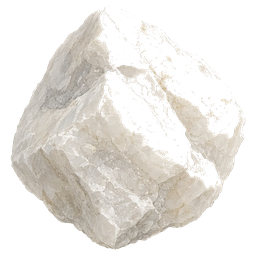
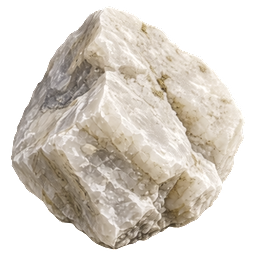
Replace the white quartz debris with the repainted version (v99)
The shipping debris/20 had black blowout patches across its upper face.
Against the game's dark sky those did not read as shadow, they read as
holes punched through the rock. The repaint keeps the same boulder with
clean quartz shading and warm mineral flecks instead.

Prepared as the other debris art is: premultiplied 512 -> 256 downscale
so no background can bleed into the edge, canvas border alpha 0, and a
236x245 footprint against the outgoing 236x244 - the same silhouette in
the same place, so nothing about how it spawns or collides changes. The
512 master is archived under art-src/debris-updates/.

Bumps ART_VER so the new art busts the cache, rebuilds the bundles and
retires js98.

diff --git a/docs/js/engine.js b/docs/js/engine.js
@@ -1,12 +1,12 @@
-import { emptyArt, loadArt } from "./art.js?v=98";
-import { sfx, unlockAudio, music } from "./audio.js?v=98";
-import { GUIDE_HELM, GUIDE_SUIT, HELMETS, IAP_ITEMS, IS_BETA, isIap, MOD_BATTERY_COST, MOD_SHIELD_COST, MODS, SUITS, TRAILS, TUT_ARM } from "./catalog.js?v=98";
-import { drawHud, drawWorld } from "./draw.js?v=98";
-import { batteryUnlocked, deepUnlocked, helmetRevealed, iapOwned, trailUnlocked, eraseSave, lostUnlocked, modsUnlocked, loadSave, palUnlocked, startShieldUnlocked, starsOf, suitRevealed, writeSave, } from "./save.js?v=98";
-import { emptyStats, experimentalRaceById, levelById, levelUnlocked } from "./campaign.js?v=98";
-import { dive, flap, initStars, makeWorld, settleLevel, pausePlay, planRaceCueEffects, resizeWorld, resetRun, resumePlay, setRaceInput, setTunnelHeld, snapshot, takeRaceCueEffects, updateWorld, } from "./sim.js?v=98";
-import { canonicalRaceY, cancelRaceGesture, createRaceGestureState, dropRaceGesture, moveRaceGesture, neutralizeOwnedRaceGesture, pressRaceGesture, releaseRaceGesture, } from "./race-gesture.js?v=98";
-import { raceViewport } from "./race-viewport.js?v=98";
+import { emptyArt, loadArt } from "./art.js?v=99";
+import { sfx, unlockAudio, music } from "./audio.js?v=99";
+import { GUIDE_HELM, GUIDE_SUIT, HELMETS, IAP_ITEMS, IS_BETA, isIap, MOD_BATTERY_COST, MOD_SHIELD_COST, MODS, SUITS, TRAILS, TUT_ARM } from "./catalog.js?v=99";
+import { drawHud, drawWorld } from "./draw.js?v=99";
+import { batteryUnlocked, deepUnlocked, helmetRevealed, iapOwned, trailUnlocked, eraseSave, lostUnlocked, modsUnlocked, loadSave, palUnlocked, startShieldUnlocked, starsOf, suitRevealed, writeSave, } from "./save.js?v=99";
+import { emptyStats, experimentalRaceById, levelById, levelUnlocked } from "./campaign.js?v=99";
+import { dive, flap, initStars, makeWorld, settleLevel, pausePlay, planRaceCueEffects, resizeWorld, resetRun, resumePlay, setRaceInput, setTunnelHeld, snapshot, takeRaceCueEffects, updateWorld, } from "./sim.js?v=99";
+import { canonicalRaceY, cancelRaceGesture, createRaceGestureState, dropRaceGesture, moveRaceGesture, neutralizeOwnedRaceGesture, pressRaceGesture, releaseRaceGesture, } from "./race-gesture.js?v=99";
+import { raceViewport } from "./race-viewport.js?v=99";
 export async function createEngine(canvas) {
     const raw = canvas.getContext("2d");
     if (!raw)
@@ -740,4 +740,4 @@ export async function createEngine(canvas) {
     notify();
     return engine;
 }
-export { deepUnlocked, lostUnlocked } from "./save.js?v=98";
+export { deepUnlocked, lostUnlocked } from "./save.js?v=99";

diff --git a/docs/js99/engine.js b/docs/js99/engine.js
@@ -1,12 +1,12 @@
-import { emptyArt, loadArt } from "./art.js?v=98";
-import { sfx, unlockAudio, music } from "./audio.js?v=98";
-import { GUIDE_HELM, GUIDE_SUIT, HELMETS, IAP_ITEMS, IS_BETA, isIap, MOD_BATTERY_COST, MOD_SHIELD_COST, MODS, SUITS, TRAILS, TUT_ARM } from "./catalog.js?v=98";
-import { drawHud, drawWorld } from "./draw.js?v=98";
-import { batteryUnlocked, deepUnlocked, helmetRevealed, iapOwned, trailUnlocked, eraseSave, lostUnlocked, modsUnlocked, loadSave, palUnlocked, startShieldUnlocked, starsOf, suitRevealed, writeSave, } from "./save.js?v=98";
-import { emptyStats, experimentalRaceById, levelById, levelUnlocked } from "./campaign.js?v=98";
-import { dive, flap, initStars, makeWorld, settleLevel, pausePlay, planRaceCueEffects, resizeWorld, resetRun, resumePlay, setRaceInput, setTunnelHeld, snapshot, takeRaceCueEffects, updateWorld, } from "./sim.js?v=98";
-import { canonicalRaceY, cancelRaceGesture, createRaceGestureState, dropRaceGesture, moveRaceGesture, neutralizeOwnedRaceGesture, pressRaceGesture, releaseRaceGesture, } from "./race-gesture.js?v=98";
-import { raceViewport } from "./race-viewport.js?v=98";
+import { emptyArt, loadArt } from "./art.js?v=99";
+import { sfx, unlockAudio, music } from "./audio.js?v=99";
+import { GUIDE_HELM, GUIDE_SUIT, HELMETS, IAP_ITEMS, IS_BETA, isIap, MOD_BATTERY_COST, MOD_SHIELD_COST, MODS, SUITS, TRAILS, TUT_ARM } from "./catalog.js?v=99";
+import { drawHud, drawWorld } from "./draw.js?v=99";
+import { batteryUnlocked, deepUnlocked, helmetRevealed, iapOwned, trailUnlocked, eraseSave, lostUnlocked, modsUnlocked, loadSave, palUnlocked, startShieldUnlocked, starsOf, suitRevealed, writeSave, } from "./save.js?v=99";
+import { emptyStats, experimentalRaceById, levelById, levelUnlocked } from "./campaign.js?v=99";
+import { dive, flap, initStars, makeWorld, settleLevel, pausePlay, planRaceCueEffects, resizeWorld, resetRun, resumePlay, setRaceInput, setTunnelHeld, snapshot, takeRaceCueEffects, updateWorld, } from "./sim.js?v=99";
+import { canonicalRaceY, cancelRaceGesture, createRaceGestureState, dropRaceGesture, moveRaceGesture, neutralizeOwnedRaceGesture, pressRaceGesture, releaseRaceGesture, } from "./race-gesture.js?v=99";
+import { raceViewport } from "./race-viewport.js?v=99";
 export async function createEngine(canvas) {
     const raw = canvas.getContext("2d");
     if (!raw)
@@ -740,4 +740,4 @@ export async function createEngine(canvas) {
     notify();
     return engine;
 }
-export { deepUnlocked, lostUnlocked } from "./save.js?v=98";
+export { deepUnlocked, lostUnlocked } from "./save.js?v=99";

diff --git a/sandbox_assets/js/engine.js b/sandbox_assets/js/engine.js
@@ -1,12 +1,12 @@
-import { emptyArt, loadArt } from "./art.js?v=98";
-import { sfx, unlockAudio, music } from "./audio.js?v=98";
-import { GUIDE_HELM, GUIDE_SUIT, HELMETS, IAP_ITEMS, IS_BETA, isIap, MOD_BATTERY_COST, MOD_SHIELD_COST, MODS, SUITS, TRAILS, TUT_ARM } from "./catalog.js?v=98";
-import { drawHud, drawWorld } from "./draw.js?v=98";
-import { batteryUnlocked, deepUnlocked, helmetRevealed, iapOwned, trailUnlocked, eraseSave, lostUnlocked, modsUnlocked, loadSave, palUnlocked, startShieldUnlocked, starsOf, suitRevealed, writeSave, } from "./save.js?v=98";
-import { emptyStats, experimentalRaceById, levelById, levelUnlocked } from "./campaign.js?v=98";
-import { dive, flap, initStars, makeWorld, settleLevel, pausePlay, planRaceCueEffects, resizeWorld, resetRun, resumePlay, setRaceInput, setTunnelHeld, snapshot, takeRaceCueEffects, updateWorld, } from "./sim.js?v=98";
-import { canonicalRaceY, cancelRaceGesture, createRaceGestureState, dropRaceGesture, moveRaceGesture, neutralizeOwnedRaceGesture, pressRaceGesture, releaseRaceGesture, } from "./race-gesture.js?v=98";
-import { raceViewport } from "./race-viewport.js?v=98";
+import { emptyArt, loadArt } from "./art.js?v=99";
+import { sfx, unlockAudio, music } from "./audio.js?v=99";
+import { GUIDE_HELM, GUIDE_SUIT, HELMETS, IAP_ITEMS, IS_BETA, isIap, MOD_BATTERY_COST, MOD_SHIELD_COST, MODS, SUITS, TRAILS, TUT_ARM } from "./catalog.js?v=99";
+import { drawHud, drawWorld } from "./draw.js?v=99";
+import { batteryUnlocked, deepUnlocked, helmetRevealed, iapOwned, trailUnlocked, eraseSave, lostUnlocked, modsUnlocked, loadSave, palUnlocked, startShieldUnlocked, starsOf, suitRevealed, writeSave, } from "./save.js?v=99";
+import { emptyStats, experimentalRaceById, levelById, levelUnlocked } from "./campaign.js?v=99";
+import { dive, flap, initStars, makeWorld, settleLevel, pausePlay, planRaceCueEffects, resizeWorld, resetRun, resumePlay, setRaceInput, setTunnelHeld, snapshot, takeRaceCueEffects, updateWorld, } from "./sim.js?v=99";
+import { canonicalRaceY, cancelRaceGesture, createRaceGestureState, dropRaceGesture, moveRaceGesture, neutralizeOwnedRaceGesture, pressRaceGesture, releaseRaceGesture, } from "./race-gesture.js?v=99";
+import { raceViewport } from "./race-viewport.js?v=99";
 export async function createEngine(canvas) {
     const raw = canvas.getContext("2d");
     if (!raw)
@@ -740,4 +740,4 @@ export async function createEngine(canvas) {
     notify();
     return engine;
 }
-export { deepUnlocked, lostUnlocked } from "./save.js?v=98";
+export { deepUnlocked, lostUnlocked } from "./save.js?v=99";

diff --git a/sandbox_assets/js99/engine.js b/sandbox_assets/js99/engine.js
@@ -1,12 +1,12 @@
-import { emptyArt, loadArt } from "./art.js?v=98";
-import { sfx, unlockAudio, music } from "./audio.js?v=98";
-import { GUIDE_HELM, GUIDE_SUIT, HELMETS, IAP_ITEMS, IS_BETA, isIap, MOD_BATTERY_COST, MOD_SHIELD_COST, MODS, SUITS, TRAILS, TUT_ARM } from "./catalog.js?v=98";
-import { drawHud, drawWorld } from "./draw.js?v=98";
-import { batteryUnlocked, deepUnlocked, helmetRevealed, iapOwned, trailUnlocked, eraseSave, lostUnlocked, modsUnlocked, loadSave, palUnlocked, startShieldUnlocked, starsOf, suitRevealed, writeSave, } from "./save.js?v=98";
-import { emptyStats, experimentalRaceById, levelById, levelUnlocked } from "./campaign.js?v=98";
-import { dive, flap, initStars, makeWorld, settleLevel, pausePlay, planRaceCueEffects, resizeWorld, resetRun, resumePlay, setRaceInput, setTunnelHeld, snapshot, takeRaceCueEffects, updateWorld, } from "./sim.js?v=98";
-import { canonicalRaceY, cancelRaceGesture, createRaceGestureState, dropRaceGesture, moveRaceGesture, neutralizeOwnedRaceGesture, pressRaceGesture, releaseRaceGesture, } from "./race-gesture.js?v=98";
-import { raceViewport } from "./race-viewport.js?v=98";
+import { emptyArt, loadArt } from "./art.js?v=99";
+import { sfx, unlockAudio, music } from "./audio.js?v=99";
+import { GUIDE_HELM, GUIDE_SUIT, HELMETS, IAP_ITEMS, IS_BETA, isIap, MOD_BATTERY_COST, MOD_SHIELD_COST, MODS, SUITS, TRAILS, TUT_ARM } from "./catalog.js?v=99";
+import { drawHud, drawWorld } from "./draw.js?v=99";
+import { batteryUnlocked, deepUnlocked, helmetRevealed, iapOwned, trailUnlocked, eraseSave, lostUnlocked, modsUnlocked, loadSave, palUnlocked, startShieldUnlocked, starsOf, suitRevealed, writeSave, } from "./save.js?v=99";
+import { emptyStats, experimentalRaceById, levelById, levelUnlocked } from "./campaign.js?v=99";
+import { dive, flap, initStars, makeWorld, settleLevel, pausePlay, planRaceCueEffects, resizeWorld, resetRun, resumePlay, setRaceInput, setTunnelHeld, snapshot, takeRaceCueEffects, updateWorld, } from "./sim.js?v=99";
+import { canonicalRaceY, cancelRaceGesture, createRaceGestureState, dropRaceGesture, moveRaceGesture, neutralizeOwnedRaceGesture, pressRaceGesture, releaseRaceGesture, } from "./race-gesture.js?v=99";
+import { raceViewport } from "./race-viewport.js?v=99";
 export async function createEngine(canvas) {
     const raw = canvas.getContext("2d");
     if (!raw)
@@ -740,4 +740,4 @@ export async function createEngine(canvas) {
     notify();
     return engine;
 }
-export { deepUnlocked, lostUnlocked } from "./save.js?v=98";
+export { deepUnlocked, lostUnlocked } from "./save.js?v=99";

diff --git a/docs/js/draw.js b/docs/js/draw.js
@@ -1,11 +1,11 @@
-import { SKY_RGB, BOUNCE_ANIM_DURATION, ENVS, IS_BETA, PHYS, SUITS, TUT_ARM, TAP_ANIM_DURATION, TAP_ANIM_ENABLED, helmetWornBy, skyIdFor, washScale, wearsOwnHead } from "./catalog.js?v=98";
-import { drawTrailPreviewOn, drawPalOn, drawAstronautOn } from "./cosmetics.js?v=98";
-import { proceduralSky } from "./sky-gen.js?v=98";
-import { drawSprite, skyImage, spriteHalo, SPRITE_HALO_PAD } from "./art.js?v=98";
-import { retroBackdrop, retroPlanet, retroObstacle, retroAcorn, retroBlocker } from "./retro.js?v=98";
-import { tunnelBoundsAt } from "./sim.js?v=98";
-import { raceViewport, raceViewportX, raceViewportY } from "./race-viewport.js?v=98";
-import { RACE_ACORNS, RACE_BASE_SPEED, RACE_DEBRIS, RACE_ENTRY_TICKS, RACE_GATE_CLEARANCE, RACE_GATE_MISS_FADE_TICKS, RACE_GATE_PASS_FADE_TICKS, RACE_HZ, RACE_LENGTH, RACE_MAX_INTERACTIVE_GAP, RACE_MAX_SPEED, RACE_PILOT_X, RACE_READY_COPY, RACE_RETURN_TICKS, RACE_RINGS, RACE_SEED, RACE_TUNNEL_SPEED, RACE_TUNNEL_TICKS, formatRaceTicks, raceDecisionAge, raceRouteTarget, raceTunnelAcorns, raceTunnelGeometry, } from "./race.js?v=98";
+import { SKY_RGB, BOUNCE_ANIM_DURATION, ENVS, IS_BETA, PHYS, SUITS, TUT_ARM, TAP_ANIM_DURATION, TAP_ANIM_ENABLED, helmetWornBy, skyIdFor, washScale, wearsOwnHead } from "./catalog.js?v=99";
+import { drawTrailPreviewOn, drawPalOn, drawAstronautOn } from "./cosmetics.js?v=99";
+import { proceduralSky } from "./sky-gen.js?v=99";
+import { drawSprite, skyImage, spriteHalo, SPRITE_HALO_PAD } from "./art.js?v=99";
+import { retroBackdrop, retroPlanet, retroObstacle, retroAcorn, retroBlocker } from "./retro.js?v=99";
+import { tunnelBoundsAt } from "./sim.js?v=99";
+import { raceViewport, raceViewportX, raceViewportY } from "./race-viewport.js?v=99";
+import { RACE_ACORNS, RACE_BASE_SPEED, RACE_DEBRIS, RACE_ENTRY_TICKS, RACE_GATE_CLEARANCE, RACE_GATE_MISS_FADE_TICKS, RACE_GATE_PASS_FADE_TICKS, RACE_HZ, RACE_LENGTH, RACE_MAX_INTERACTIVE_GAP, RACE_MAX_SPEED, RACE_PILOT_X, RACE_READY_COPY, RACE_RETURN_TICKS, RACE_RINGS, RACE_SEED, RACE_TUNNEL_SPEED, RACE_TUNNEL_TICKS, formatRaceTicks, raceDecisionAge, raceRouteTarget, raceTunnelAcorns, raceTunnelGeometry, } from "./race.js?v=99";
 function frameOf(list, t, speed = 6) {
     if (!list.length)
         return null;

diff --git a/docs/js99/draw.js b/docs/js99/draw.js
@@ -1,11 +1,11 @@
-import { SKY_RGB, BOUNCE_ANIM_DURATION, ENVS, IS_BETA, PHYS, SUITS, TUT_ARM, TAP_ANIM_DURATION, TAP_ANIM_ENABLED, helmetWornBy, skyIdFor, washScale, wearsOwnHead } from "./catalog.js?v=98";
-import { drawTrailPreviewOn, drawPalOn, drawAstronautOn } from "./cosmetics.js?v=98";
-import { proceduralSky } from "./sky-gen.js?v=98";
-import { drawSprite, skyImage, spriteHalo, SPRITE_HALO_PAD } from "./art.js?v=98";
-import { retroBackdrop, retroPlanet, retroObstacle, retroAcorn, retroBlocker } from "./retro.js?v=98";
-import { tunnelBoundsAt } from "./sim.js?v=98";
-import { raceViewport, raceViewportX, raceViewportY } from "./race-viewport.js?v=98";
-import { RACE_ACORNS, RACE_BASE_SPEED, RACE_DEBRIS, RACE_ENTRY_TICKS, RACE_GATE_CLEARANCE, RACE_GATE_MISS_FADE_TICKS, RACE_GATE_PASS_FADE_TICKS, RACE_HZ, RACE_LENGTH, RACE_MAX_INTERACTIVE_GAP, RACE_MAX_SPEED, RACE_PILOT_X, RACE_READY_COPY, RACE_RETURN_TICKS, RACE_RINGS, RACE_SEED, RACE_TUNNEL_SPEED, RACE_TUNNEL_TICKS, formatRaceTicks, raceDecisionAge, raceRouteTarget, raceTunnelAcorns, raceTunnelGeometry, } from "./race.js?v=98";
+import { SKY_RGB, BOUNCE_ANIM_DURATION, ENVS, IS_BETA, PHYS, SUITS, TUT_ARM, TAP_ANIM_DURATION, TAP_ANIM_ENABLED, helmetWornBy, skyIdFor, washScale, wearsOwnHead } from "./catalog.js?v=99";
+import { drawTrailPreviewOn, drawPalOn, drawAstronautOn } from "./cosmetics.js?v=99";
+import { proceduralSky } from "./sky-gen.js?v=99";
+import { drawSprite, skyImage, spriteHalo, SPRITE_HALO_PAD } from "./art.js?v=99";
+import { retroBackdrop, retroPlanet, retroObstacle, retroAcorn, retroBlocker } from "./retro.js?v=99";
+import { tunnelBoundsAt } from "./sim.js?v=99";
+import { raceViewport, raceViewportX, raceViewportY } from "./race-viewport.js?v=99";
+import { RACE_ACORNS, RACE_BASE_SPEED, RACE_DEBRIS, RACE_ENTRY_TICKS, RACE_GATE_CLEARANCE, RACE_GATE_MISS_FADE_TICKS, RACE_GATE_PASS_FADE_TICKS, RACE_HZ, RACE_LENGTH, RACE_MAX_INTERACTIVE_GAP, RACE_MAX_SPEED, RACE_PILOT_X, RACE_READY_COPY, RACE_RETURN_TICKS, RACE_RINGS, RACE_SEED, RACE_TUNNEL_SPEED, RACE_TUNNEL_TICKS, formatRaceTicks, raceDecisionAge, raceRouteTarget, raceTunnelAcorns, raceTunnelGeometry, } from "./race.js?v=99";
 function frameOf(list, t, speed = 6) {
     if (!list.length)
         return null;

diff --git a/sandbox_assets/js/draw.js b/sandbox_assets/js/draw.js
@@ -1,11 +1,11 @@
-import { SKY_RGB, BOUNCE_ANIM_DURATION, ENVS, IS_BETA, PHYS, SUITS, TUT_ARM, TAP_ANIM_DURATION, TAP_ANIM_ENABLED, helmetWornBy, skyIdFor, washScale, wearsOwnHead } from "./catalog.js?v=98";
-import { drawTrailPreviewOn, drawPalOn, drawAstronautOn } from "./cosmetics.js?v=98";
-import { proceduralSky } from "./sky-gen.js?v=98";
-import { drawSprite, skyImage, spriteHalo, SPRITE_HALO_PAD } from "./art.js?v=98";
-import { retroBackdrop, retroPlanet, retroObstacle, retroAcorn, retroBlocker } from "./retro.js?v=98";
-import { tunnelBoundsAt } from "./sim.js?v=98";
-import { raceViewport, raceViewportX, raceViewportY } from "./race-viewport.js?v=98";
-import { RACE_ACORNS, RACE_BASE_SPEED, RACE_DEBRIS, RACE_ENTRY_TICKS, RACE_GATE_CLEARANCE, RACE_GATE_MISS_FADE_TICKS, RACE_GATE_PASS_FADE_TICKS, RACE_HZ, RACE_LENGTH, RACE_MAX_INTERACTIVE_GAP, RACE_MAX_SPEED, RACE_PILOT_X, RACE_READY_COPY, RACE_RETURN_TICKS, RACE_RINGS, RACE_SEED, RACE_TUNNEL_SPEED, RACE_TUNNEL_TICKS, formatRaceTicks, raceDecisionAge, raceRouteTarget, raceTunnelAcorns, raceTunnelGeometry, } from "./race.js?v=98";
+import { SKY_RGB, BOUNCE_ANIM_DURATION, ENVS, IS_BETA, PHYS, SUITS, TUT_ARM, TAP_ANIM_DURATION, TAP_ANIM_ENABLED, helmetWornBy, skyIdFor, washScale, wearsOwnHead } from "./catalog.js?v=99";
+import { drawTrailPreviewOn, drawPalOn, drawAstronautOn } from "./cosmetics.js?v=99";
+import { proceduralSky } from "./sky-gen.js?v=99";
+import { drawSprite, skyImage, spriteHalo, SPRITE_HALO_PAD } from "./art.js?v=99";
+import { retroBackdrop, retroPlanet, retroObstacle, retroAcorn, retroBlocker } from "./retro.js?v=99";
+import { tunnelBoundsAt } from "./sim.js?v=99";
+import { raceViewport, raceViewportX, raceViewportY } from "./race-viewport.js?v=99";
+import { RACE_ACORNS, RACE_BASE_SPEED, RACE_DEBRIS, RACE_ENTRY_TICKS, RACE_GATE_CLEARANCE, RACE_GATE_MISS_FADE_TICKS, RACE_GATE_PASS_FADE_TICKS, RACE_HZ, RACE_LENGTH, RACE_MAX_INTERACTIVE_GAP, RACE_MAX_SPEED, RACE_PILOT_X, RACE_READY_COPY, RACE_RETURN_TICKS, RACE_RINGS, RACE_SEED, RACE_TUNNEL_SPEED, RACE_TUNNEL_TICKS, formatRaceTicks, raceDecisionAge, raceRouteTarget, raceTunnelAcorns, raceTunnelGeometry, } from "./race.js?v=99";
 function frameOf(list, t, speed = 6) {
     if (!list.length)
         return null;

diff --git a/sandbox_assets/js99/draw.js b/sandbox_assets/js99/draw.js
@@ -1,11 +1,11 @@
-import { SKY_RGB, BOUNCE_ANIM_DURATION, ENVS, IS_BETA, PHYS, SUITS, TUT_ARM, TAP_ANIM_DURATION, TAP_ANIM_ENABLED, helmetWornBy, skyIdFor, washScale, wearsOwnHead } from "./catalog.js?v=98";
-import { drawTrailPreviewOn, drawPalOn, drawAstronautOn } from "./cosmetics.js?v=98";
-import { proceduralSky } from "./sky-gen.js?v=98";
-import { drawSprite, skyImage, spriteHalo, SPRITE_HALO_PAD } from "./art.js?v=98";
-import { retroBackdrop, retroPlanet, retroObstacle, retroAcorn, retroBlocker } from "./retro.js?v=98";
-import { tunnelBoundsAt } from "./sim.js?v=98";
-import { raceViewport, raceViewportX, raceViewportY } from "./race-viewport.js?v=98";
-import { RACE_ACORNS, RACE_BASE_SPEED, RACE_DEBRIS, RACE_ENTRY_TICKS, RACE_GATE_CLEARANCE, RACE_GATE_MISS_FADE_TICKS, RACE_GATE_PASS_FADE_TICKS, RACE_HZ, RACE_LENGTH, RACE_MAX_INTERACTIVE_GAP, RACE_MAX_SPEED, RACE_PILOT_X, RACE_READY_COPY, RACE_RETURN_TICKS, RACE_RINGS, RACE_SEED, RACE_TUNNEL_SPEED, RACE_TUNNEL_TICKS, formatRaceTicks, raceDecisionAge, raceRouteTarget, raceTunnelAcorns, raceTunnelGeometry, } from "./race.js?v=98";
+import { SKY_RGB, BOUNCE_ANIM_DURATION, ENVS, IS_BETA, PHYS, SUITS, TUT_ARM, TAP_ANIM_DURATION, TAP_ANIM_ENABLED, helmetWornBy, skyIdFor, washScale, wearsOwnHead } from "./catalog.js?v=99";
+import { drawTrailPreviewOn, drawPalOn, drawAstronautOn } from "./cosmetics.js?v=99";
+import { proceduralSky } from "./sky-gen.js?v=99";
+import { drawSprite, skyImage, spriteHalo, SPRITE_HALO_PAD } from "./art.js?v=99";
+import { retroBackdrop, retroPlanet, retroObstacle, retroAcorn, retroBlocker } from "./retro.js?v=99";
+import { tunnelBoundsAt } from "./sim.js?v=99";
+import { raceViewport, raceViewportX, raceViewportY } from "./race-viewport.js?v=99";
+import { RACE_ACORNS, RACE_BASE_SPEED, RACE_DEBRIS, RACE_ENTRY_TICKS, RACE_GATE_CLEARANCE, RACE_GATE_MISS_FADE_TICKS, RACE_GATE_PASS_FADE_TICKS, RACE_HZ, RACE_LENGTH, RACE_MAX_INTERACTIVE_GAP, RACE_MAX_SPEED, RACE_PILOT_X, RACE_READY_COPY, RACE_RETURN_TICKS, RACE_RINGS, RACE_SEED, RACE_TUNNEL_SPEED, RACE_TUNNEL_TICKS, formatRaceTicks, raceDecisionAge, raceRouteTarget, raceTunnelAcorns, raceTunnelGeometry, } from "./race.js?v=99";
 function frameOf(list, t, speed = 6) {
     if (!list.length)
         return null;

diff --git a/docs/js/standalone.js b/docs/js/standalone.js
@@ -1,10 +1,10 @@
-import { ART_VER, BUILD, ENVS, GAME_VERSION, GUIDE_HELM, GUIDE_SUIT, HELMETS, IAP_ITEMS, IS_BETA, MOD_BATTERY_COST, MOD_SHIELD_COST, MODS, NEWS, PALS, PHYS, SUITS, TRAILS, helmetWornBy, isIap, wearsOwnHead } from "./catalog.js?v=98";
-import { paintPortrait, paintTrailPreview, paintPalPreview } from "./draw.js?v=98";
-import { drawSprite as drawSpriteOn } from "./art.js?v=98";
-import { createEngine } from "./engine.js?v=98";
-import { deepUnlocked, helmetRevealed, lostUnlocked, palUnlocked, suitRevealed, iapOwned, modsUnlocked, starsOf, trailUnlocked } from "./save.js?v=98";
-import { LEVELS, PROTOTYPE_RACE_MAX_ACORNS, PROTOTYPE_RACE_MISSION, STAGES, STAR_REWARDS, STAR_UNLOCKS, countBits, experimentalRaceById, fxText, goalText, levelUnlocked, stageUnlocked, starTitle } from "./campaign.js?v=98";
-import { formatRaceTicks } from "./race.js?v=98";
+import { ART_VER, BUILD, ENVS, GAME_VERSION, GUIDE_HELM, GUIDE_SUIT, HELMETS, IAP_ITEMS, IS_BETA, MOD_BATTERY_COST, MOD_SHIELD_COST, MODS, NEWS, PALS, PHYS, SUITS, TRAILS, helmetWornBy, isIap, wearsOwnHead } from "./catalog.js?v=99";
+import { paintPortrait, paintTrailPreview, paintPalPreview } from "./draw.js?v=99";
+import { drawSprite as drawSpriteOn } from "./art.js?v=99";
+import { createEngine } from "./engine.js?v=99";
+import { deepUnlocked, helmetRevealed, lostUnlocked, palUnlocked, suitRevealed, iapOwned, modsUnlocked, starsOf, trailUnlocked } from "./save.js?v=99";
+import { LEVELS, PROTOTYPE_RACE_MAX_ACORNS, PROTOTYPE_RACE_MISSION, STAGES, STAR_REWARDS, STAR_UNLOCKS, countBits, experimentalRaceById, fxText, goalText, levelUnlocked, stageUnlocked, starTitle } from "./campaign.js?v=99";
+import { formatRaceTicks } from "./race.js?v=99";
 function el(tag, cls = "", text) {
     const n = document.createElement(tag);
     if (cls)

diff --git a/docs/js99/standalone.js b/docs/js99/standalone.js
@@ -1,10 +1,10 @@
-import { ART_VER, BUILD, ENVS, GAME_VERSION, GUIDE_HELM, GUIDE_SUIT, HELMETS, IAP_ITEMS, IS_BETA, MOD_BATTERY_COST, MOD_SHIELD_COST, MODS, NEWS, PALS, PHYS, SUITS, TRAILS, helmetWornBy, isIap, wearsOwnHead } from "./catalog.js?v=98";
-import { paintPortrait, paintTrailPreview, paintPalPreview } from "./draw.js?v=98";
-import { drawSprite as drawSpriteOn } from "./art.js?v=98";
-import { createEngine } from "./engine.js?v=98";
-import { deepUnlocked, helmetRevealed, lostUnlocked, palUnlocked, suitRevealed, iapOwned, modsUnlocked, starsOf, trailUnlocked } from "./save.js?v=98";
-import { LEVELS, PROTOTYPE_RACE_MAX_ACORNS, PROTOTYPE_RACE_MISSION, STAGES, STAR_REWARDS, STAR_UNLOCKS, countBits, experimentalRaceById, fxText, goalText, levelUnlocked, stageUnlocked, starTitle } from "./campaign.js?v=98";
-import { formatRaceTicks } from "./race.js?v=98";
+import { ART_VER, BUILD, ENVS, GAME_VERSION, GUIDE_HELM, GUIDE_SUIT, HELMETS, IAP_ITEMS, IS_BETA, MOD_BATTERY_COST, MOD_SHIELD_COST, MODS, NEWS, PALS, PHYS, SUITS, TRAILS, helmetWornBy, isIap, wearsOwnHead } from "./catalog.js?v=99";
+import { paintPortrait, paintTrailPreview, paintPalPreview } from "./draw.js?v=99";
+import { drawSprite as drawSpriteOn } from "./art.js?v=99";
+import { createEngine } from "./engine.js?v=99";
+import { deepUnlocked, helmetRevealed, lostUnlocked, palUnlocked, suitRevealed, iapOwned, modsUnlocked, starsOf, trailUnlocked } from "./save.js?v=99";
+import { LEVELS, PROTOTYPE_RACE_MAX_ACORNS, PROTOTYPE_RACE_MISSION, STAGES, STAR_REWARDS, STAR_UNLOCKS, countBits, experimentalRaceById, fxText, goalText, levelUnlocked, stageUnlocked, starTitle } from "./campaign.js?v=99";
+import { formatRaceTicks } from "./race.js?v=99";
 function el(tag, cls = "", text) {
     const n = document.createElement(tag);
     if (cls)

diff --git a/sandbox_assets/js/standalone.js b/sandbox_assets/js/standalone.js
@@ -1,10 +1,10 @@
-import { ART_VER, BUILD, ENVS, GAME_VERSION, GUIDE_HELM, GUIDE_SUIT, HELMETS, IAP_ITEMS, IS_BETA, MOD_BATTERY_COST, MOD_SHIELD_COST, MODS, NEWS, PALS, PHYS, SUITS, TRAILS, helmetWornBy, isIap, wearsOwnHead } from "./catalog.js?v=98";
-import { paintPortrait, paintTrailPreview, paintPalPreview } from "./draw.js?v=98";
-import { drawSprite as drawSpriteOn } from "./art.js?v=98";
-import { createEngine } from "./engine.js?v=98";
-import { deepUnlocked, helmetRevealed, lostUnlocked, palUnlocked, suitRevealed, iapOwned, modsUnlocked, starsOf, trailUnlocked } from "./save.js?v=98";
-import { LEVELS, PROTOTYPE_RACE_MAX_ACORNS, PROTOTYPE_RACE_MISSION, STAGES, STAR_REWARDS, STAR_UNLOCKS, countBits, experimentalRaceById, fxText, goalText, levelUnlocked, stageUnlocked, starTitle } from "./campaign.js?v=98";
-import { formatRaceTicks } from "./race.js?v=98";
+import { ART_VER, BUILD, ENVS, GAME_VERSION, GUIDE_HELM, GUIDE_SUIT, HELMETS, IAP_ITEMS, IS_BETA, MOD_BATTERY_COST, MOD_SHIELD_COST, MODS, NEWS, PALS, PHYS, SUITS, TRAILS, helmetWornBy, isIap, wearsOwnHead } from "./catalog.js?v=99";
+import { paintPortrait, paintTrailPreview, paintPalPreview } from "./draw.js?v=99";
+import { drawSprite as drawSpriteOn } from "./art.js?v=99";
+import { createEngine } from "./engine.js?v=99";
+import { deepUnlocked, helmetRevealed, lostUnlocked, palUnlocked, suitRevealed, iapOwned, modsUnlocked, starsOf, trailUnlocked } from "./save.js?v=99";
+import { LEVELS, PROTOTYPE_RACE_MAX_ACORNS, PROTOTYPE_RACE_MISSION, STAGES, STAR_REWARDS, STAR_UNLOCKS, countBits, experimentalRaceById, fxText, goalText, levelUnlocked, stageUnlocked, starTitle } from "./campaign.js?v=99";
+import { formatRaceTicks } from "./race.js?v=99";
 function el(tag, cls = "", text) {
     const n = document.createElement(tag);
     if (cls)

diff --git a/sandbox_assets/js99/standalone.js b/sandbox_assets/js99/standalone.js
@@ -1,10 +1,10 @@
-import { ART_VER, BUILD, ENVS, GAME_VERSION, GUIDE_HELM, GUIDE_SUIT, HELMETS, IAP_ITEMS, IS_BETA, MOD_BATTERY_COST, MOD_SHIELD_COST, MODS, NEWS, PALS, PHYS, SUITS, TRAILS, helmetWornBy, isIap, wearsOwnHead } from "./catalog.js?v=98";
-import { paintPortrait, paintTrailPreview, paintPalPreview } from "./draw.js?v=98";
-import { drawSprite as drawSpriteOn } from "./art.js?v=98";
-import { createEngine } from "./engine.js?v=98";
-import { deepUnlocked, helmetRevealed, lostUnlocked, palUnlocked, suitRevealed, iapOwned, modsUnlocked, starsOf, trailUnlocked } from "./save.js?v=98";
-import { LEVELS, PROTOTYPE_RACE_MAX_ACORNS, PROTOTYPE_RACE_MISSION, STAGES, STAR_REWARDS, STAR_UNLOCKS, countBits, experimentalRaceById, fxText, goalText, levelUnlocked, stageUnlocked, starTitle } from "./campaign.js?v=98";
-import { formatRaceTicks } from "./race.js?v=98";
+import { ART_VER, BUILD, ENVS, GAME_VERSION, GUIDE_HELM, GUIDE_SUIT, HELMETS, IAP_ITEMS, IS_BETA, MOD_BATTERY_COST, MOD_SHIELD_COST, MODS, NEWS, PALS, PHYS, SUITS, TRAILS, helmetWornBy, isIap, wearsOwnHead } from "./catalog.js?v=99";
+import { paintPortrait, paintTrailPreview, paintPalPreview } from "./draw.js?v=99";
+import { drawSprite as drawSpriteOn } from "./art.js?v=99";
+import { createEngine } from "./engine.js?v=99";
+import { deepUnlocked, helmetRevealed, lostUnlocked, palUnlocked, suitRevealed, iapOwned, modsUnlocked, starsOf, trailUnlocked } from "./save.js?v=99";
+import { LEVELS, PROTOTYPE_RACE_MAX_ACORNS, PROTOTYPE_RACE_MISSION, STAGES, STAR_REWARDS, STAR_UNLOCKS, countBits, experimentalRaceById, fxText, goalText, levelUnlocked, stageUnlocked, starTitle } from "./campaign.js?v=99";
+import { formatRaceTicks } from "./race.js?v=99";
 function el(tag, cls = "", text) {
     const n = document.createElement(tag);
     if (cls)
